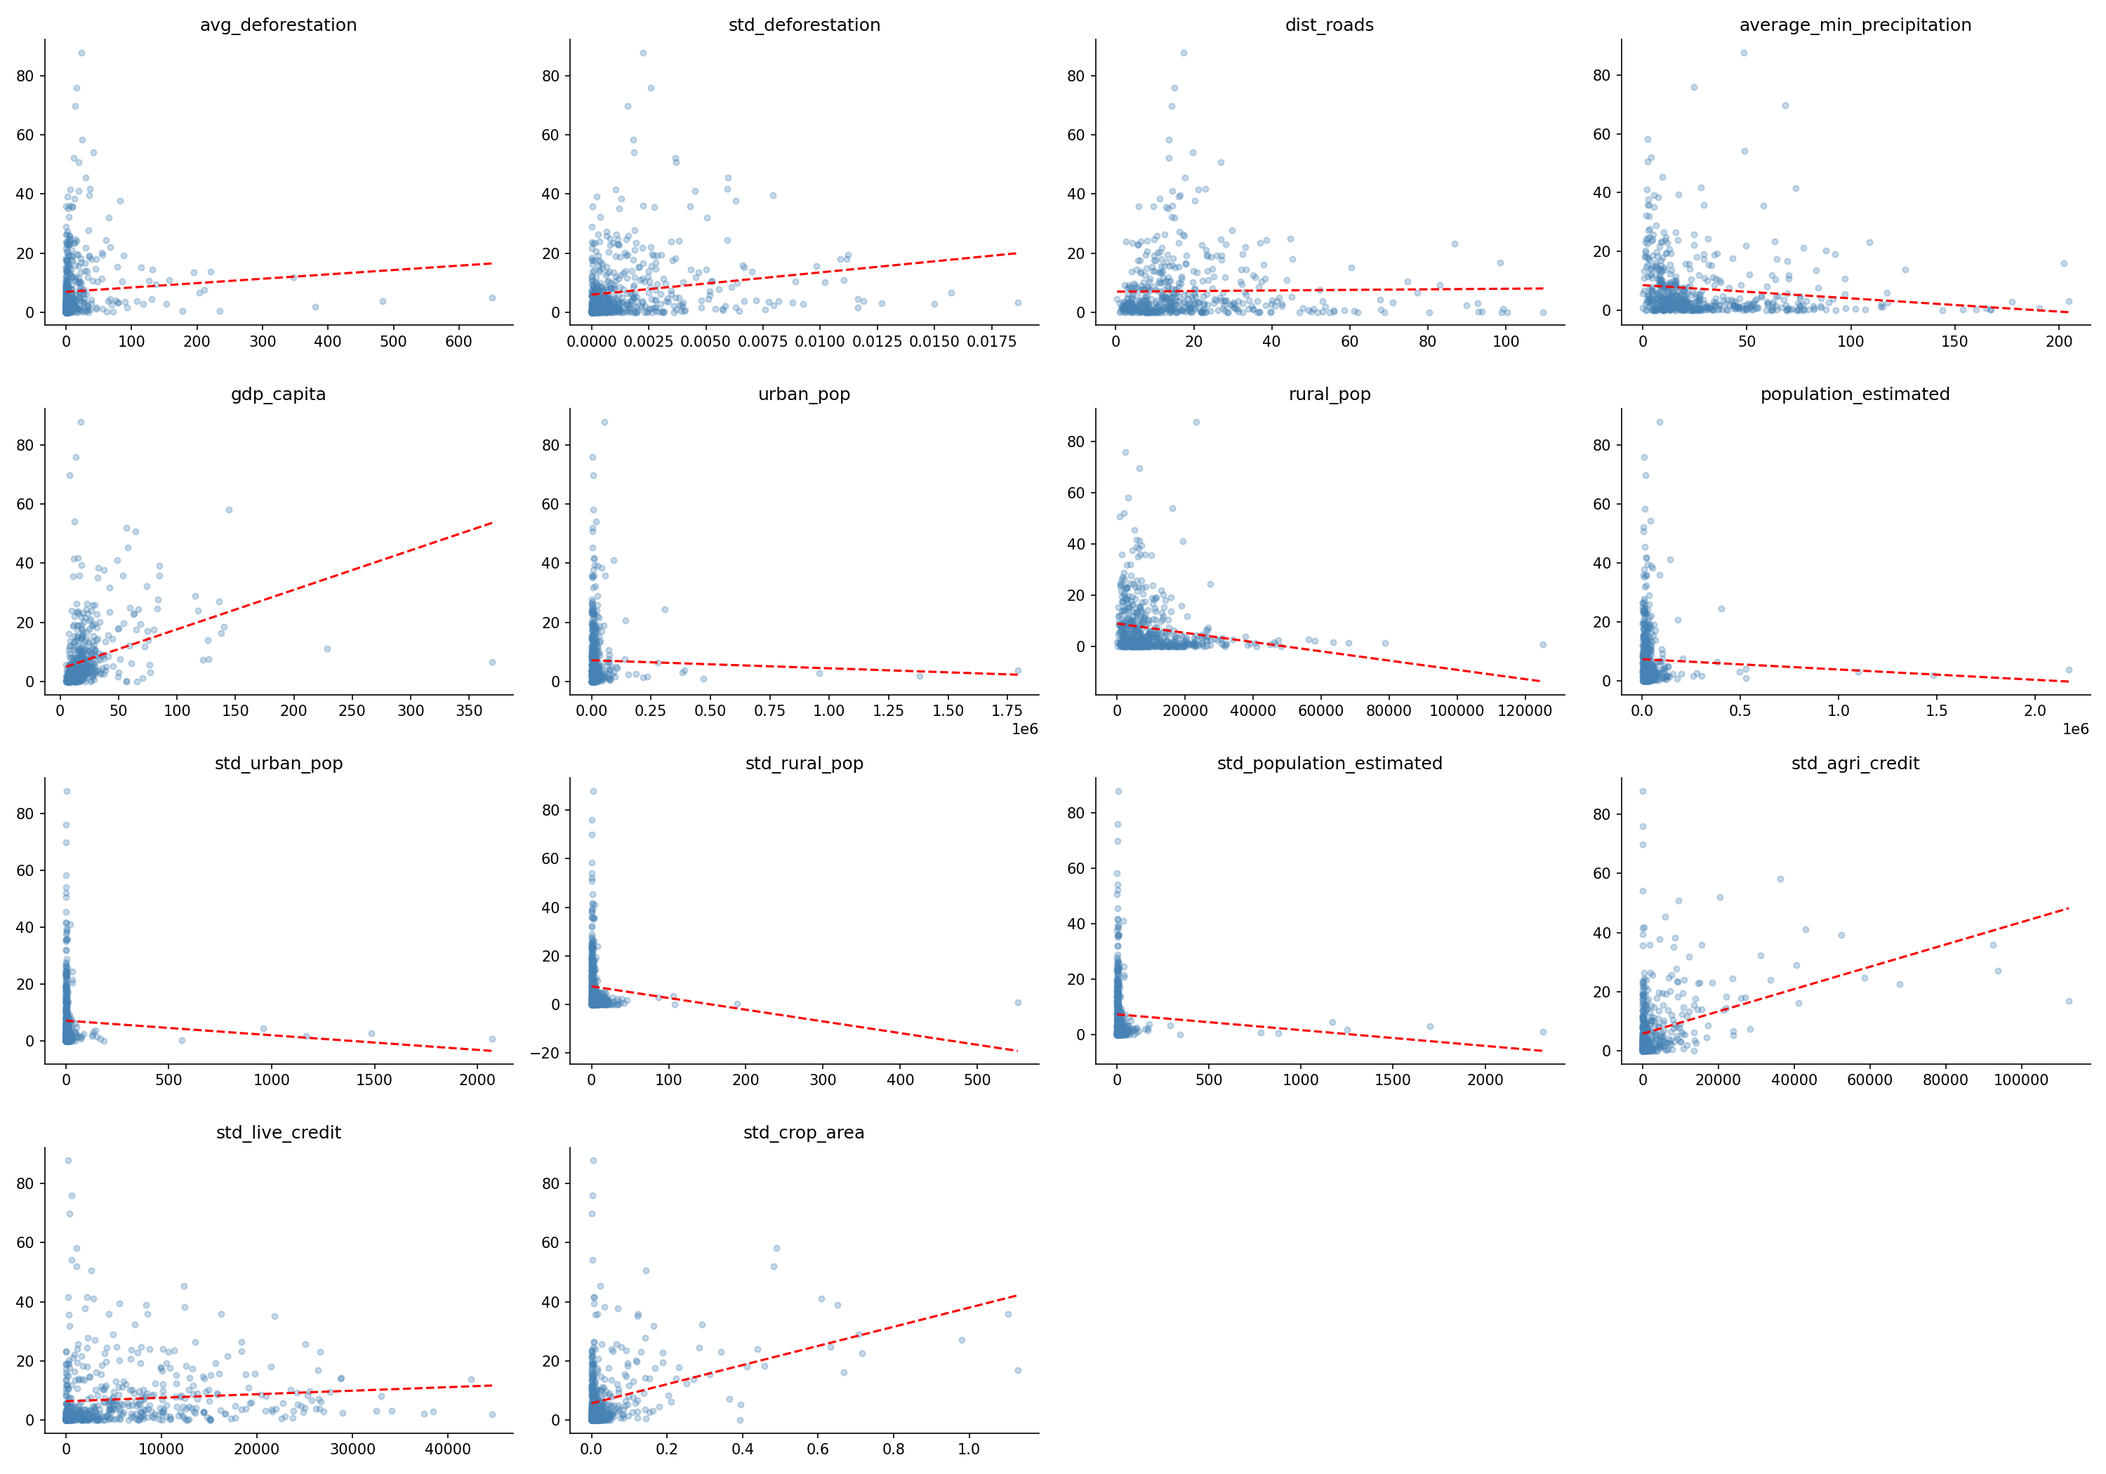
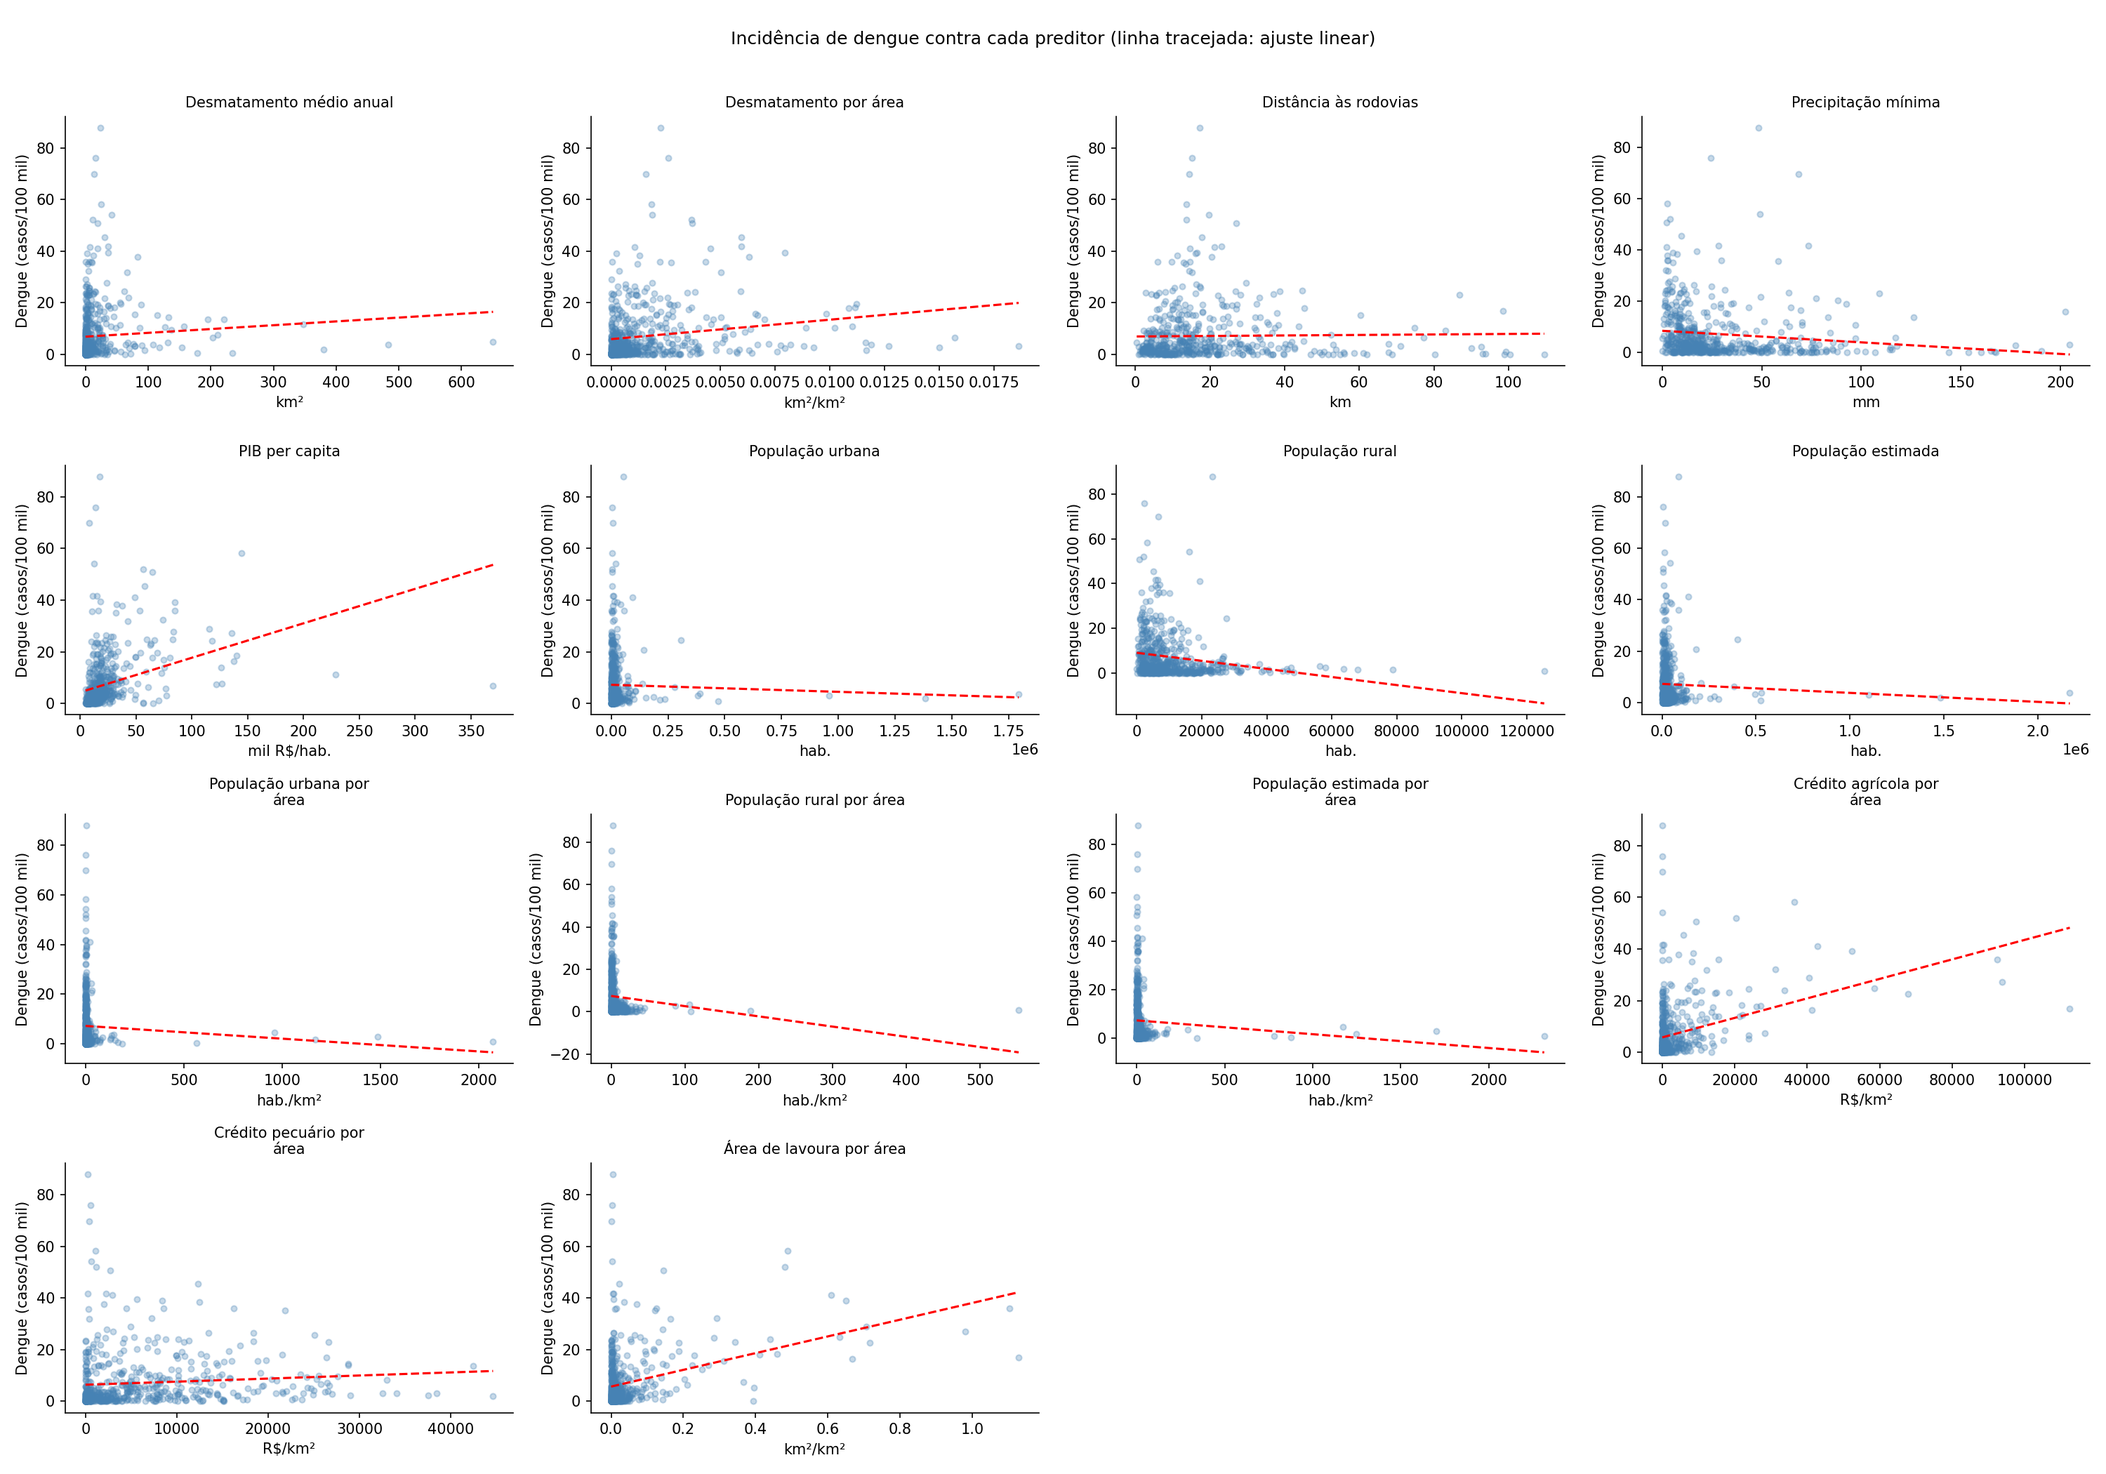
fix: revisa títulos, eixos, legendas e unidades de todas as figuras (pt-BR, cenários A–D)

diff --git a/models/run_models.py b/models/run_models.py
@@ -37,6 +37,13 @@ PRED_COLS = [
 ]  # fmt: skip
 PAPER_COLS = ["std_deforestation", "std_agri_credit", "std_live_credit", "gdp_capita"]  # Tabela 1 do artigo
 RNG = np.random.default_rng(42)  # ruído mínimo contra colinearidade exata; fixo para reprodutibilidade
+LABELS = {
+    "avg_deforestation": "Desmatamento médio anual", "dist_roads": "Distância às rodovias",
+    "average_min_precipitation": "Precipitação mínima", "gdp_capita": "PIB per capita",
+    "std_rural_pop": "População rural por área", "std_urban_pop": "População urbana por área",
+    "std_agri_credit": "Crédito agrícola por área", "std_live_credit": "Crédito pecuário por área",
+    "std_crop_area": "Área de lavoura por área", "dengue_incidence_log": "log(1 + incidência de dengue)",
+}  # fmt: skip
 LISA_COLORS = {0: "lightgrey", 1: "red", 2: "lightblue", 3: "blue", 4: "pink"}
 LISA_LABELS = {
     0: "Não Significativo",
@@ -105,8 +112,10 @@ def save_fig(fig, name: str, tight: bool = True, **kwargs) -> None:
     plt.close(fig)
 
 
-def plot_map(gdf, column, ax, cmap, **kwargs) -> None:
-    gdf.plot(column=column, cmap=cmap, legend=True, ax=ax, edgecolor="black", linewidth=0.1, **kwargs)
+def plot_map(gdf, column, ax, cmap, label=None, **kwargs) -> None:
+    gdf.plot(column=column, cmap=cmap, legend=True, ax=ax, edgecolor="black", linewidth=0.1,
+             legend_kwds={"label": label, "shrink": 0.7}, **kwargs)  # fmt: skip
+    ax.axis("off")
 
 
 def with_gdp_log(cols: list[str]) -> list[str]:
@@ -132,9 +141,9 @@ def run_moran(gdf, w) -> dict:
         subset = gdf[gdf["lisa_cluster"] == cluster]
         if not subset.empty:
             subset.plot(ax=ax, color=color, edgecolor="black", linewidth=0.1)
-            patches.append(mpatches.Patch(color=color, label=LISA_LABELS[cluster]))
+            patches.append(mpatches.Patch(color=color, label=f"{LISA_LABELS[cluster]} (n = {len(subset)})"))
     ax.legend(handles=patches, loc="lower left", title="Clusters LISA")
-    ax.set_title("Clusters Espaciais de Incidência de Dengue (LISA)")
+    ax.set_title(f"Clusters LISA da incidência de dengue (I de Moran global = {mi.I:.3f}; p < 0.05)")
     ax.axis("off")
     save_fig(fig, "07_lisa_clusters.png", tight=False, bbox_inches="tight")
     return metrics
@@ -186,21 +195,25 @@ def run_gwr(gdf, coords) -> dict:
 
 
 def plot_baseline_diagnostics(gdf, gwr_r2: float) -> None:
-    """Resíduos do OLS, R² local do GWR e resumo dos coeficientes locais."""
-    fig, axes = plt.subplots(1, 3, figsize=(15, 4))
+    """Resíduos do OLS, R² local do GWR e resumo dos coeficientes locais (cenário A)."""
+    fig, axes = plt.subplots(1, 3, figsize=(16, 4.5))
     axes[0].hist(gdf["residuo_ols"], bins=40, edgecolor="k")
-    axes[0].set_title("OLS Residuals Distribution")
+    axes[0].set(title="Distribuição dos resíduos do OLS", xlabel="Resíduo (casos/100 mil)", ylabel="Municípios")
     axes[1].scatter(gdf["fitted_ols"], gdf["residuo_ols"], alpha=0.4, s=10)
-    axes[1].set_title("Residuals vs Fitted")
-    plot_map(gdf, "residuo_ols", axes[2], "PRGn")
-    axes[2].set_title("OLS Residuals Map")
+    axes[1].axhline(0, color="k", lw=0.8)
+    axes[1].set(title="Resíduos contra valores ajustados", xlabel="Valor ajustado (casos/100 mil)", ylabel="Resíduo")
+    limit = np.percentile(np.abs(gdf["residuo_ols"]), 95)  # escala simétrica: branco = resíduo zero
+    plot_map(gdf, "residuo_ols", axes[2], "PRGn", "Resíduo (casos/100 mil)", vmin=-limit, vmax=limit)
+    axes[2].set_title("Resíduos do OLS por município")
+    fig.suptitle("Cenário A: OLS com 9 variáveis, escala original")
     save_fig(fig, "08_ols_residuals.png")
 
     fig, axes = plt.subplots(1, 2, figsize=(14, 6))
-    gdf["r2_local_gwr"].hist(bins=30, ax=axes[0], edgecolor="k")
-    axes[0].set_title("Local R² Distribution (GWR)")
-    plot_map(gdf, "r2_local_gwr", axes[1], "YlOrBr")
-    axes[1].set_title(f"Local R² Map (Global R²={gwr_r2:.2f})")
+    gdf["r2_local_gwr"].hist(bins=30, ax=axes[0], edgecolor="k", grid=False)
+    axes[0].set(title="Distribuição do R² local", xlabel="R² local", ylabel="Municípios")
+    plot_map(gdf, "r2_local_gwr", axes[1], "YlOrBr", "R² local")
+    axes[1].set_title("R² local por município")
+    fig.suptitle(f"Cenário A: GWR adaptativo (bisquare), 9 variáveis, escala original (R² global = {gwr_r2:.3f})")
     save_fig(fig, "09_gwr_r2_local.png")
 
     names = ["Intercepto", *PRED_COLS]
@@ -216,13 +229,15 @@ def run_transformed(gdf, w, coords, gwr_r2: float) -> dict:
     X_log = np.log1p(np.maximum(gdf[PRED_COLS].values, 0))
     X = standardize(X_log)
 
-    norm_df = pd.DataFrame(X, columns=PRED_COLS).assign(dengue_incidence_log=y.flatten())
+    norm_df = pd.DataFrame(X, columns=PRED_COLS).assign(dengue_incidence_log=y.flatten()).rename(columns=LABELS)
+    corr = norm_df.corr().iloc[1:, :-1]  # sem a diagonal nem o triângulo superior
     fig, ax = plt.subplots(figsize=(11, 9))
     sns.heatmap(
-        norm_df.corr(), mask=np.triu(np.ones_like(norm_df.corr(), dtype=bool)),
-        annot=True, fmt=".2f", cmap="RdBu_r", center=0, ax=ax,
+        corr, mask=np.triu(np.ones_like(corr, dtype=bool), k=1), annot=True, fmt=".2f", cmap="RdBu_r", center=0,
+        cbar_kws={"label": "Correlação de Pearson"}, ax=ax,
     )  # fmt: skip
-    save_fig(fig, "10_normalized_correlation.png", tight=False)
+    ax.set_title("Cenário B: correlação após log(1 + x) e z-score")
+    save_fig(fig, "10_normalized_correlation.png")
 
     ols = OLS(y, X, w=w, name_x=PRED_COLS)
     bw, results = fit_gwr(coords, y, X)
@@ -231,12 +246,11 @@ def run_transformed(gdf, w, coords, gwr_r2: float) -> dict:
     base, trans = gdf["r2_local_gwr"], gdf["r2_local_gwr_transformed"]
     limits = {"vmin": min(base.min(), trans.min()), "vmax": max(base.max(), trans.max())}
     fig, axes = plt.subplots(1, 2, figsize=(16, 7))
-    plot_map(gdf, "r2_local_gwr", axes[0], "YlOrBr", **limits)
-    axes[0].set_title(f"GWR (R²={gwr_r2:.3f})")
-    plot_map(gdf, "r2_local_gwr_transformed", axes[1], "YlOrBr", **limits)
-    axes[1].set_title(f"GWR com Transformações (R²={float(results.R2):.3f})")
-    for ax in axes:
-        ax.axis("off")
+    plot_map(gdf, "r2_local_gwr", axes[0], "YlOrBr", "R² local", **limits)
+    axes[0].set_title(f"A. escala original (R² global = {gwr_r2:.3f})")
+    plot_map(gdf, "r2_local_gwr_transformed", axes[1], "YlOrBr", "R² local", **limits)
+    axes[1].set_title(f"B. log(1 + x) e z-score (R² global = {float(results.R2):.3f})")
+    fig.suptitle("R² local do GWR adaptativo (bisquare), 9 variáveis, na mesma escala de cores")
     save_fig(fig, "11_gwr_r2_comparison.png")
 
     metrics = {
@@ -255,17 +269,19 @@ def plot_paper_gwr(gdf, results) -> None:
     """R² local e coeficientes locais (desmatamento, PIB per capita) do GWR fixo da reprodução do artigo."""
     panels = {
         "R² local": results.localR2,
-        "Coeficiente do desmatamento": results.params[:, 1],
-        "Coeficiente do PIB per capita": results.params[:, 4],
+        "Coeficiente local do desmatamento (por área)": results.params[:, 1],
+        "Coeficiente local do PIB per capita": results.params[:, 4],
     }
     fig, axes = plt.subplots(1, 3, figsize=(18, 6))
     for ax, (title, values) in zip(axes, panels.items()):
         gdf["_v"] = values
         lo, hi = np.percentile(values, [5, 95])  # corta os extremos para a escala não ser dominada por outliers
-        plot_map(gdf, "_v", ax, "YlOrBr" if title == "R² local" else "RdBu_r", vmin=lo, vmax=hi)
+        if title != "R² local":  # coeficientes: escala simétrica, para o branco marcar o zero
+            lo, hi = -max(abs(lo), abs(hi)), max(abs(lo), abs(hi))
+        plot_map(gdf, "_v", ax, "YlOrBr" if title == "R² local" else "RdBu_r", title.split(" (")[0], vmin=lo, vmax=hi)
         ax.set_title(title)
-        ax.axis("off")
     gdf.drop(columns="_v", inplace=True)
+    fig.suptitle("Cenário C: GWR gaussiano fixo, 4 variáveis, escala original (cores truncadas nos percentis 5 e 95)")
     save_fig(fig, "12_paper_gwr_local.png")
 
 

diff --git a/eda/03_eda_pre_modeling.py b/eda/03_eda_pre_modeling.py
@@ -1,4 +1,5 @@
 import math
+import textwrap
 from pathlib import Path
 
 import geopandas as gpd
@@ -21,6 +22,34 @@ MODEL_VARS = [
 ]  # fmt: skip
 
 
+LABELS = {
+    "dengue_incidence": "Incidência de dengue (casos/100 mil, média semanal)",
+    "avg_deforestation": "Desmatamento médio anual (km²)",
+    "std_deforestation": "Desmatamento por área (km²/km²)",
+    "dist_roads": "Distância às rodovias (km)",
+    "average_min_precipitation": "Precipitação mínima (mm)",
+    "gdp_capita": "PIB per capita (mil R$/hab.)",
+    "urban_pop": "População urbana (hab.)",
+    "rural_pop": "População rural (hab.)",
+    "population_estimated": "População estimada (hab.)",
+    "std_urban_pop": "População urbana por área (hab./km²)",
+    "std_rural_pop": "População rural por área (hab./km²)",
+    "std_population_estimated": "População estimada por área (hab./km²)",
+    "std_agri_credit": "Crédito agrícola por área (R$/km²)",
+    "std_live_credit": "Crédito pecuário por área (R$/km²)",
+    "std_crop_area": "Área de lavoura por área (km²/km²)",
+}
+
+
+def short(col):
+    """Nome sem a unidade, para títulos de painel."""
+    return textwrap.fill(LABELS[col].split(" (")[0], 24)
+
+
+def unit(col):
+    return LABELS[col].split(" (")[1].rstrip(")")
+
+
 def panel_grid(columns, width, height, n_cols=4):
     """Grade de painéis, um por coluna (os sobrantes ficam ocultos)."""
     n_rows = math.ceil(len(columns) / n_cols)
@@ -32,7 +61,7 @@ def panel_grid(columns, width, height, n_cols=4):
 
 
 def save(fig, name):
-    fig.tight_layout()
+    fig.tight_layout(rect=(0, 0, 1, 0.97))
     fig.savefig(FIGURES_DIR / name, dpi=150)
     plt.close(fig)
 
@@ -52,23 +81,33 @@ def export_statistics(df):
 def plot_distributions(df):
     fig, axes = panel_grid(MODEL_VARS, 4, 3)
     for ax, col in zip(axes, MODEL_VARS):
-        df[col].hist(ax=ax, bins=40, edgecolor="k", color="lightblue")
-        ax.set_title(col)
+        df[col].hist(ax=ax, bins=40, edgecolor="k", color="lightblue", grid=False)
+        ax.set_title(short(col), fontsize=10)
+        ax.set_xlabel(unit(col))
+        ax.set_ylabel("Municípios")
         hide_spines(ax)
+    fig.suptitle("Distribuição das variáveis (560 municípios)")
     save(fig, "01_distributions.png")
 
-    fig, ax = plt.subplots(figsize=(14, 5))
-    df[MODEL_VARS].boxplot(ax=ax, rot=45)
+    # Escalas muito diferentes: boxplot em log(1+x) para que todas as variáveis sejam legíveis.
+    fig, ax = plt.subplots(figsize=(9, 7))
+    df[MODEL_VARS].apply(np.log1p).rename(columns=lambda c: short(c).replace("\n", " ")).boxplot(ax=ax, vert=False)
+    ax.invert_yaxis()
+    ax.set_xlabel("log(1 + valor), na unidade de cada variável")
+    ax.set_title("Boxplots das variáveis (escala logarítmica)")
     hide_spines(ax)
     save(fig, "02_boxplots.png")
 
 
 def plot_correlation(df):
-    corr = df[MODEL_VARS].corr()
+    corr = df[MODEL_VARS].corr().rename(index=lambda c: short(c).replace("\n", " "), columns=lambda c: short(c).replace("\n", " "))
+    corr = corr.iloc[1:, :-1]  # sem a diagonal nem o triângulo superior
     fig, ax = plt.subplots(figsize=(11, 9))
     sns.heatmap(
-        corr, mask=np.triu(np.ones_like(corr, dtype=bool)), annot=True, fmt=".2f", cmap="RdBu_r", center=0, ax=ax
+        corr, mask=np.triu(np.ones_like(corr, dtype=bool), k=1), annot=True, fmt=".2f", cmap="RdBu_r", center=0,
+        cbar_kws={"label": "Correlação de Pearson"}, ax=ax,
     )
+    ax.set_title("Correlação entre as variáveis (560 municípios)")
     save(fig, "03_correlation_matrix.png")
 
 
@@ -77,21 +116,23 @@ def plot_scatters(df):
     fig, axes = panel_grid(predictors, 5, 3.5)
     for ax, col in zip(axes, predictors):
         ax.scatter(df[col], df["dengue_incidence"], alpha=0.3, s=15, color="steelblue")
-        ax.set_title(col)
+        ax.set_title(short(col), fontsize=10)
+        ax.set_xlabel(unit(col))
+        ax.set_ylabel("Dengue (casos/100 mil)")
         fit = np.poly1d(np.polyfit(df[col].fillna(0), df["dengue_incidence"], 1))
         x = np.linspace(df[col].min(), df[col].max(), 100)
         ax.plot(x, fit(x), "r--", lw=1.5)
         hide_spines(ax)
+    fig.suptitle("Incidência de dengue contra cada preditor (linha tracejada: ajuste linear)")
     save(fig, "04_scatter_plots.png")
 
 
 def plot_maps(gdf):
     fig, axes = plt.subplots(1, 2, figsize=(16, 7))
-    for ax, col, title in zip(
-        axes, ["dengue_incidence", "avg_deforestation"], ["Dengue Incidence", "Avg Deforestation"]
-    ):
-        gdf.plot(column=col, cmap="YlOrBr", legend=True, edgecolor="black", linewidth=0.2, ax=ax)
-        ax.set_title(title)
+    for ax, col in zip(axes, ["dengue_incidence", "avg_deforestation"]):
+        gdf.plot(column=col, cmap="YlOrBr", legend=True, edgecolor="black", linewidth=0.2, ax=ax,
+                 legend_kwds={"label": LABELS[col], "shrink": 0.6})  # fmt: skip
+        ax.set_title(short(col).replace("\n", " "))
         ax.axis("off")
     save(fig, "05_exploratory_map.png")
 
@@ -101,9 +142,11 @@ def plot_maps(gdf):
         vmin, vmax = gdf[col].quantile([0.05, 0.95])
         limits = {} if vmin == vmax else {"vmin": vmin, "vmax": vmax}
         cmap = "Greens" if any(key in col for key in ("precipitation", "crop", "agri")) else "YlOrBr"
-        gdf.plot(column=col, cmap=cmap, legend=True, edgecolor="black", linewidth=0.1, ax=ax, **limits)
-        ax.set_title(col)
+        gdf.plot(column=col, cmap=cmap, legend=True, edgecolor="black", linewidth=0.1, ax=ax,
+                 legend_kwds={"shrink": 0.6}, **limits)  # fmt: skip
+        ax.set_title(short(col), fontsize=10)
         ax.axis("off")
+    fig.suptitle("Preditores por município (escala de cores truncada nos percentis 5 e 95)")
     save(fig, "06_predictors_maps.png")
 
 

diff --git a/README.md b/README.md
@@ -147,17 +147,18 @@ variáveis brutas, dá R² ajustado de apenas 0,44 pela fórmula do GWmodel).
 
 ![Clusters LISA](figures/07_lisa_clusters.png)
 
-**R² local do GWR do artigo e coeficientes locais** (escalas cortadas nos percentis 5 e 95). O coeficiente do
-desmatamento muda de sinal no espaço.
+**Cenário C: R² local e coeficientes locais do GWR do artigo** (cores truncadas nos percentis 5 e 95; escala dos
+coeficientes simétrica, branco = zero). O coeficiente do desmatamento muda de sinal no espaço.
 
 ![GWR local da reprodução do artigo](figures/12_paper_gwr_local.png)
 
-**R² local do GWR baseline, sem e com transformações.**
+**R² local do GWR adaptativo nos cenários A (original) e B (log1p + z-score), na mesma escala de cores.**
 
 ![R² local por cenário](figures/11_gwr_r2_comparison.png)
 
-Também em `figures/`: distribuições e boxplots (01, 02), matriz de correlação (03, 10), dispersões (04), mapas
-exploratórios (05, 06), resíduos do OLS (08) e R² local do baseline (09).
+Também em `figures/`: distribuições e boxplots em escala log (01, 02), correlações (03 original; 10 após a
+transformação do cenário B), dispersões (04), mapas exploratórios (05, 06), resíduos do OLS do cenário A (08) e R²
+local do cenário A (09). Todas as figuras têm título, eixos e unidades em português.
 
 ## Limitações
 
